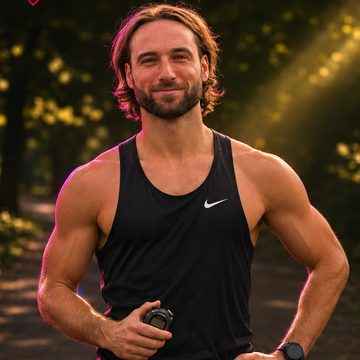
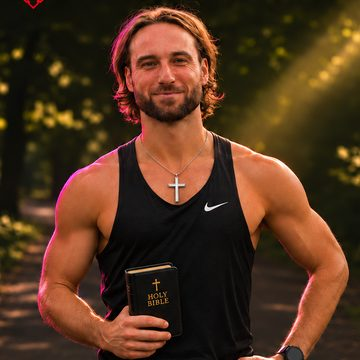
Ivan: The Shepherd poster, silver cross
Claude-Session: https://claude.ai/code/session_01CnA2TpEr4YhDJrZyQtxAA6

diff --git a/parkrun-game/index.html b/parkrun-game/index.html
@@ -602,7 +602,7 @@ function runnerSprites(r){
   const mkF = body => sprite(coat(hd.concat(body)), pal);
   const set = { stand:mkF(B_STAND), a:mkF(B_A), b:mkF(B_B), c:mkF(B_C), jump:mkF(B_J), wave:sprite(coat(hd.slice(0,5).concat(B_WAVE)), pal) };
   if (r.cross) for (const k in set){   // small cross on the chest (sprite rows 8-10, column 5)
-    const g = set[k].getContext('2d'); g.fillStyle = '#f2d27a';
+    const g = set[k].getContext('2d'); g.fillStyle = '#dcdde6';
     g.fillRect(6, 9, 1, 3); g.fillRect(5, 10, 3, 1);
   }
   return set;
